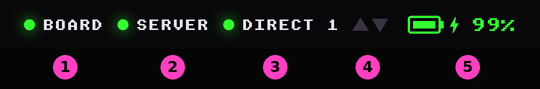
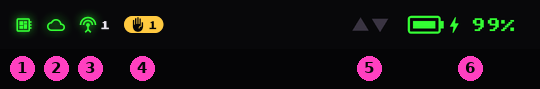
Docs: Permissions, the Control menu and chooser, and the new status strip
A page for Permissions (features, people, requests, declined, the
command log, what others see), Control's menu and chooser, the status
strip's icons and requests, the links sheet from the top, and the
card's Lets others control line; new and updated screenshots.

diff --git a/docs/app/permissions.md b/docs/app/permissions.md
@@ -1,0 +1,89 @@
+# Permissions
+
+Others in the hive can control parts of your unit: put words on its [Terminal](../features/terminal.md), or run your [Lovense](../features/lovense.md) toys.  **Permissions** is where you choose who can, see who's asking, and look back at every command that came.  The choices are kept on your unit, so they work whether or not your phone's with you.
+
+Open it from *Setup*, or from the [links sheet](connecting.md#the-links-sheet) that pulls down from the status strip.  When someone's asking, a yellow raised hand with a count shows on the [status strip](README.md#the-status-strip), on the links sheet and in Setup.
+
+Back to [the app](README.md).
+
+## Features
+
+<img src="../images/app/permissions_features.png" width="300" alt="The Features tab for the Terminal: Nobody, Allowed or Anyone, Ignore broadcasts and Ignore channel commands, and each person with a switch">
+
+Pick a feature at the top, *TERMINAL* or *LOVENSE*, to see one at a time.
+
+**Who can control it**:
+
+- **NOBODY**: everyone's commands are ignored.  Who you've allowed is kept for when you turn it back on.
+- **ALLOWED**, to start with: only the people switched on below.  Commands from anyone else aren't carried out, and come in as [requests](#requests).
+- **ANYONE**: everyone's commands are carried out.  The switches for each person make no difference while it's set.
+
+Two more switches ignore some commands whoever they're from, allowed or not:
+
+- **Ignore broadcasts**: commands sent to everyone who can hear the sender, from their *Broadcast*.  Those sent to the open direct channel count too, as anyone nearby can hear that.
+- **Ignore channel commands**: commands sent to a whole channel, server or direct, rather than just to you.
+
+With both on, only commands sent to you alone get through.
+
+**People** is everyone on your unit's list: anyone who's sent you a command, or been allowed something.  Switch someone on to let them control the feature.
+
+## People
+
+Everyone on your unit's list, with icons for what each is allowed.  Tap someone to choose everything they can control at once.  The remove button takes them off the list and allows them nothing: if they send you a command again, it comes in as a new request.
+
+People are known by their identity, not their name: their app signs each command with a key only it has.  So it's one entry whether they reach you over the server or direct, and nobody can pass as someone you've allowed by taking their name.  Someone using a name another person had first is marked ⚠.
+
+## Requests
+
+<img src="../images/app/permissions_requests.png" width="300" alt="A request from RCat-Linux2: wants to control the Terminal, what they last tried, and Decline or Accept">
+
+A request appears when someone who isn't allowed sends you a command for a feature set to *ALLOWED*.  Their command isn't carried out, and they aren't told either way: they just send, and it works once you've allowed them.  Several commands from one person make one request, with each feature they tried and their latest command.
+
+- **Accept** asks what to allow them.  The feature they asked for is already ticked; tick others to allow those too, or **Allow all**.  A feature you've set to *NOBODY* can be ticked: it takes effect when you turn it back on.
+- **Decline** leaves everything as it was, and moves them to [Declined](#declined).
+
+<img src="../images/app/permissions_accept.png" width="300" alt="Allow RCat-Linux2 to control: Terminal ticked, Lovense not, and Allow all or Allow">
+
+A request is only made while the app's linked to your unit.  One is taken back by itself if you allow them on the unit, or set the feature to *ANYONE*.
+
+When one comes in:
+
+- **Attention tone**: four short notes in your headphones, unlike the text tone or the ring.  In *Setup*, under *Headphones*, with a play button to hear it.  It's on to start with.
+- **Permission requests** notification: in *Setup*, under *Notifications*.  Tap it to open Permissions.  It's off to start with.
+
+Your unit plays no sound for requests.
+
+## Declined
+
+<img src="../images/app/permissions_declined.png" width="300" alt="Declined: RCat-Linux2, declined for the Terminal, with remove and Allow">
+
+Their commands for what you declined don't make new requests; the [log](#command-log) still notes them.
+
+- **×** takes them off this list, so their next command asks again.
+- **Allow** lets you allow them now, without waiting for a new request.
+
+## Command log
+
+<img src="../images/app/permissions_log.png" width="300" alt="The command log: each command with its time, who sent it and what, whether it was done, and how it came; requests declined and allowed">
+
+The log button at the top of Permissions lists every command that came to you, newest first, with the time:
+
+- **Who and what**: *RCat-Linux2 put "Report to the hive" on your display*, or *set your toys to vibrate at 4*.
+- **What came of it**: *Done* (green); *Not done: they asked for permission* or *their request is waiting* (yellow); or *Not done* and why (red): the feature's off, you ignore commands sent to everyone or to a channel, you declined them before, or you muted them.
+- **How it came**: *Cloud* (the server) or *Direct*, and whether it was sent *To you only*, *To the channel* or *To everyone*.
+
+Accepting, declining and allowing are noted too, in pink.  It keeps the last 500 entries; the button at its top clears it.  A command that came both ways is listed for each.
+
+## What others see
+
+Each unit tells the others what its wearer lets others control: over the server through its app, and over direct mode in the unit's own hello.  It says each feature that's *ALLOWED* or *ANYONE*, and leaves out those set to *NOBODY*, and *Lovense* while no toy is paired.  It says nothing about who in particular you've allowed.
+
+<img src="../images/app/person_capabilities.png" width="300" alt="What RCat-Linux lets others control: Terminal, only people they allow; Lovense, not available">
+
+On someone's card ([Voice](voice.md#whos-there)), *Lets others control* shows an icon for each.  Tap it for the whole list: *Anyone can control it*, *Only people they allow*, or *Not available*.  *Not known* means their app or unit is too old to say.  See [Control](control.md#sending) for how it's used.
+
+## On the unit and the remote
+
+The same settings are on the unit itself, on each feature's *Others* pages (the Lovense feature's *Hive Commands*, the Terminal's *Hive Messages*), and under *From others* in the [Remote](remote.md) tab.  They're one set of settings, kept on the unit: change them anywhere and the others follow.
+
+Older unit firmware can only allow someone a feature they've already sent a command for, and doesn't tell other units what it lets others control: [update it](firmware-updates.md).  Permissions greys out what it can't do yet, and says when your unit didn't take a change.

diff --git a/docs/app/text.md b/docs/app/text.md
@@ -30,7 +30,7 @@ Conversations are kept on the phone, the last 300 messages of each, so they're s
 
 ## Notifications
 
-A text that comes in while you're not looking at its conversation shows as a notification, with the conversation's latest texts and the sender's avatar.  Tap it to open the conversation.  Reading the conversation clears it.  Commands for your display or toys don't notify you: they're only noted in the conversation.
+A text that comes in while you're not looking at its conversation shows as a notification, with the conversation's latest texts and the sender's avatar.  Tap it to open the conversation.  Reading the conversation clears it.  Commands for your display or toys don't notify you: they're only noted in the conversation.  A [permission request](permissions.md#requests) can, with its own notification.
 
 In *Setup*, under *Notifications*:
 
@@ -65,7 +65,7 @@ For your own messages it shows how they went: other units don't say which copies
 
 ## Their display
 
-The **Terminal button** (`>_`) at the top of a conversation puts words on their unit's display, on its [Terminal](../features/terminal.md), in blocky green letters.  To a channel, it goes to everyone in it.
+**Terminal**, in the **Control button**'s menu (a remote) at the top of a conversation, puts words on their unit's display, on its [Terminal](../features/terminal.md), in blocky green letters.  To a channel, it goes to everyone in it.
 
 <img src="../images/app/text_terminal.png" width="300" alt="Their display: the words, the letter size, Add a line or Replace, Clear their display, and Switch to it">
 
@@ -78,37 +78,22 @@ It shows just as you type it, with no name added, and the same choices as typing
 
 It only shows if they [allow you](#who-can-put-words-on-your-display).  The display has plain capital letters, numbers and punctuation: anything else, like emoji, shows as `?`.
 
-No name is shown, but it isn't anonymous: their unit knows who sent it, as it has to in order to check they allow you, and shows the last sender on its *Hive Messages* page.  Their app notes it in your conversation too.
+No name is shown, but it isn't anonymous: their unit knows who sent it, as it has to in order to check they allow you, and shows the last sender on its *Hive Messages* page.  Their app notes it in your conversation, and in their [command log](permissions.md#command-log).
 
 ## Their toys
 
-The **Control button** at the top of a conversation opens [Control](control.md), for the toys of the person, or of everyone in the channel.
+**Lovense**, in the **Control button**'s menu at the top of a conversation, opens [Control](control.md), for the toys of the person, or of everyone in the channel.
 
 ## What a conversation shows
 
 Texts, yours on the right in pink and theirs on the left in green, with who sent each in a channel.
 
-Between them, in grey, are the commands for the display and the toys, sent each way: *You put "WE ARE THE HIVE" on their display*, or *RubberCat2 set your vibrate to 8*.  One your unit didn't do is in red, *not done*, so you can see who's trying.  It may not be allowed, or your unit may be set to ignore ones sent to everyone or to the whole channel.  Tap *change them* under it to go to those settings, in the [Remote](remote.md) tab.  Dragging a slider makes one line, not one for every step.
+Between them, in grey, are the commands for the display and the toys, sent each way: *You put "WE ARE THE HIVE" on their display*, or *RubberCat2 set your vibrate to 8*.  One your unit didn't do is in red, *not done*, so you can see who's trying.  It may not be allowed, or your unit may be set to ignore ones sent to everyone or to the whole channel.  Tap *change them* under it to go to [Permissions](permissions.md), whose [log](permissions.md#command-log) says why.  Dragging a slider makes one line, not one for every step.
 
 Someone you've muted (*Mute for me*, in their details) is muted here too: their texts and commands are ignored, and your unit doesn't do their commands, whoever they're for.
 
 ## Who can put words on your display
 
-You choose who can put words on your display, with **Off**, **Ask** or **Accept**, as for your [toys](control.md#who-can-control-your-toys).  It's on your unit, on the Terminal feature's second page, *Hive Messages*, and in the app's [Remote](remote.md) tab, under the Terminal tab's *From others*, with the list of who's sent you something:
+You choose who can put words on your display in [Permissions](permissions.md), as for your [toys](control.md#who-can-control-your-toys), with a list of its own.  It's **Allowed** to start with: the first time someone sends you words, nothing shows, and it comes in as a [request](permissions.md#requests) for you to accept or decline.
 
-- **Ask**, to start with: only people you've allowed.  The first time someone sends you words, they're added to your unit's list, **not allowed**, and nothing shows.  Tap them to allow them, and their words show from then on (tap again to stop; on the display, hold them to take them off the list).
-- **Accept**: anyone's words show, allowed or not.  New people are still added to the list, so you can see who's been sending, and allow them for when you go back to Ask.
-- **Off**: nobody's words show, and nobody's added.
-
-Two more choices, under it (on the unit, on the page after *Hive Messages*), ignore some commands whoever they're from, allowed or not:
-
-- **Ignore broadcasts**: those sent to everyone who can hear the sender, from their *Broadcast*.  Those sent to the channel over the open direct channel count too, as anyone nearby can hear that.
-- **Ignore channel-wide**: those sent to a whole channel, server or direct.
-
-So with both on, only commands sent to you alone get through.
-
-Someone's known by their identity, not their name: their app signs each command with a key only it has, and the list shows the first few characters of that key beside their name.  So it's one entry whether they reach you over the server or direct, and someone else can't pass as them by using their name.  Someone new who uses a name already on the list is marked ⚠: it's someone else.
-
-It's a separate list from the one for your toys, so someone can put words on your display without being allowed near your toys.  Texts don't need either: they only reach your app.
-
-Words for the display, and commands for the toys, need a Mumble server from version 1.4 on.  Texts work on any.
+Someone's known by their identity, not their name: their app signs each command with a key only it has.  So it's one entry whether they reach you over the server or direct, and someone else can't pass as them by using their name.  Someone new who uses a name already on the list is marked ⚠: it's someone else.

diff --git a/docs/app/control.md b/docs/app/control.md
@@ -1,6 +1,6 @@
 # Control
 
-Control runs other drones' [Lovense](../features/lovense.md) toys, through their units: over the server or over direct mode, wherever they are.  It only works on toys whose wearers have [allowed you](#who-can-control-your-toys).
+Control runs other drones' [Lovense](../features/lovense.md) toys, through their units: over the server or over direct mode, wherever they are.  It only works on toys whose wearers have allowed you (see [Permissions](permissions.md)); if they haven't, your first command asks them.
 
 <img src="../images/app/control.png" width="300" alt="Control for one drone: Levels, Patterns and React, a slider for each kind of motor, and STOP">
 
@@ -8,9 +8,19 @@ Back to [the app](README.md).  Running *your own* toys is on your unit's [Lovens
 
 ## Sending
 
-Open it with the **Control button** at the top of a [Text](text.md) conversation: it's for whoever that conversation is with, which it says at the top.  From a person's conversation it's their toys, sent both ways they can be reached (their unit does each once, by whichever way it allows); from a channel's, the toys of everyone in it; from *Broadcast*, everyone who can hear you.  The *Control* button on someone in the [Voice](voice.md#whos-there) list opens it for them too.
+The **Control button** (a remote) at the top of a [Text](text.md) conversation opens a menu of what you can control: **Terminal**, words on their [display](text.md#their-display), and **Lovense**, their toys.  It's for whoever that conversation is with, which it says at the top.  From a person's conversation it's their toys, sent both ways they can be reached (their unit does each once, by whichever way it allows); from a channel's, the toys of everyone in it; from *Broadcast*, everyone who can hear you.
 
-Then one of three sections:
+<img src="../images/app/control_menu.png" width="300" alt="The Control menu in a conversation: Terminal, and Lovense greyed out">
+
+For one person, what they don't let others control is greyed out: they've set it to *Nobody*, or for Lovense, have no toy paired.  Each unit says what it lets others control (see [What others see](permissions.md#what-others-see)); if theirs is too old to say, everything's there to try.  In a channel, everything is, as each person in it may allow different things.
+
+The **Control** button on someone's card, from the [Voice](voice.md#whos-there) list, opens the same choice as a screen: each feature, whether anyone can control it or only people they allow, and what's greyed out.
+
+<img src="../images/app/control_choose.png" width="300" alt="Control, to RCat-Linux: Terminal, only people they allow; Lovense greyed out, not available">
+
+Picking **Lovense** opens Control:
+
+It has three sections:
 
 - **LEVELS**: a slider for each kind of motor, from 0 to 20: *VIBRATE*, *ROTATE*, *PUMP* and *THRUST*.  Each toy runs the motors it has, and 20 is each motor's top.  The levels also set how high Patterns and React go.
 - **PATTERNS**: plays a pattern on their toys, if their unit has one by that name: the six built-in ones always do (*Wave*, *Pulse*, *Heartbeat*, *Climb*, *Surge*, *Wander*), and patterns from an SD card only if theirs has one with the same name.  The list is your unit's.  *SPEED* runs them from 25% to 300%.
@@ -22,18 +32,6 @@ What you set stays set on their toys until it's changed or stopped, even once yo
 
 ## Who can control your toys
 
-The same works the other way, and you choose whose commands your toys take, with **Off**, **Ask** or **Accept**.  It's on your unit, on the Lovense feature's *Hive Commands* page, and in the app's [Remote](remote.md) tab, under *Toys*, *From others*, with the list of who's sent you commands:
+The same works the other way: you choose whose commands your toys take, in [Permissions](permissions.md).  It's **Allowed** to start with, so someone new asks you first, and you accept or decline.  **STOP** on your own unit, or in your Remote tab, stops whatever anyone's set.
 
-- **Ask**, to start with: only people you've allowed.  The first time someone sends you a command, they're added to your unit's list, **not allowed**, and the command is ignored.  Allow them, and their commands work from then on.
-- **Accept**: anyone's commands work, allowed or not.  New people are still added to the list, so you can see who's been sending, and allow them for when you go back to Ask.
-- **Off**: everyone's commands are ignored, and nobody's added.
-- **STOP** on your own unit, or in your Remote tab, stops whatever anyone's set.
-
-Two more choices, under it (on the unit, on the page after *Hive Commands*), ignore some commands whoever they're from, allowed or not:
-
-- **Ignore broadcasts**: those sent to everyone who can hear the sender, from their *Broadcast*.  Those sent to the channel over the open direct channel count too, as anyone nearby can hear that.
-- **Ignore channel-wide**: those sent to a whole channel, server or direct.
-
-So with both on, only commands sent to you alone get through.  Someone you've [muted](text.md#what-a-conversation-shows) is ignored too.
-
-It's a separate list from the one for [your display](text.md#who-can-put-words-on-your-display), so someone can put words on your display without being allowed near your toys.  Texting you needs neither.  People are known by their identity, not their name, so nobody can pass as someone you've allowed: see [Commands from others](../features/lovense.md#commands-from-others) for the details.
+It's separate from who can [put words on your display](text.md#who-can-put-words-on-your-display), so someone can put words on your display without being allowed near your toys.  Texting you needs neither.  People are known by their identity, not their name, so nobody can pass as someone you've allowed: see [Commands from others](../features/lovense.md#commands-from-others) for the details.

diff --git a/docs/app/README.md b/docs/app/README.md
@@ -15,6 +15,7 @@ The DroneLab app is the phone's half of your unit.  It links your unit to the re
 - **[Voice](voice.md)**: talk to other drones and hear them, like a radio, over the internet through a shared server, or unit to unit with no signal at all.  Your voice goes out through your voice effect; theirs comes to your headphones, through the phone.  [Call](voice.md#calls) one drone to talk alone.
 - **[Text](text.md)**: text one drone, a channel, or everyone who can hear you, in a conversation for each, with photos over the server and emoji reactions; and from any of them, put words on their displays, if they've allowed you.
 - **[Control](control.md)**: run other drones' [Lovense](../features/lovense.md) toys, if they've allowed you, from a conversation.
+- **[Permissions](permissions.md)**: choose who can control your display and toys, accept or decline their requests, and see a log of every command that came.
 - **[Record](record.md)**: record your voice effect to the phone as WAV files, for videos, with a beep to line it up with the camera.
 - **[Remote](remote.md)**: everything on the unit's display, from the phone, so nobody has to reach the display in the mask.
 - **[Firmware updates](firmware-updates.md)**: the app carries the latest firmware for your unit and offers to put it on.
@@ -36,21 +37,22 @@ Four tabs along the bottom, and the status strip along the top of every one:
 | **Record** | Recording your voice, and your recordings. |
 | **Remote** | The unit's own controls, as on its display. |
 
-**Setup**, behind the gear on the Voice tab, has what's set once: [connecting](connecting.md) the unit and the server, your avatar, how you [talk](voice.md#setup-talking), the [unit's sounds](voice.md#setup-unit-sounds), the headphones' ring and text tones, [notifications](text.md#notifications), and the [unit's firmware](firmware-updates.md).  Its (i), top right, opens **About**: the app's and phone's versions, and the unit's connection, signal, firmware, MAC addresses, enclosure, uptime and battery.  The (i) buttons throughout the app explain each setting.  Tapping the version on *About* ten times shows [developer options](developer-options.md) in Setup, for testing range and relays alone.
+**Setup**, behind the gear on the Voice tab, has what's set once: [connecting](connecting.md) the unit and the server, your avatar, how you [talk](voice.md#setup-talking), the [unit's sounds](voice.md#setup-unit-sounds), [permissions](permissions.md), the headphones' ring, text and attention tones, [notifications](text.md#notifications), and the [unit's firmware](firmware-updates.md).  Its (i), top right, opens **About**: the app's and phone's versions, and the unit's connection, signal, firmware, MAC addresses, enclosure, uptime and battery.  The (i) buttons throughout the app explain each setting.  Tapping the version on *About* ten times shows [developer options](developer-options.md) in Setup, for testing range and relays alone.
 
 ### The status strip
 
-<img src="../images/app/status_strip.png" width="540" alt="The status strip, numbered: 1 board, 2 server, 3 direct, 4 arrows, 5 battery">
+<img src="../images/app/status_strip.png" width="540" alt="The status strip, numbered: 1 unit, 2 server, 3 direct, 4 requests, 5 arrows, 6 battery">
 
 | | Shows | |
 |---|---|---|
-| 1 | **BOARD** | Green while the app's connected to your unit over Bluetooth. |
-| 2 | **SERVER** | Green while it's connected to the hive's server, for the [cloud link](voice.md#two-links-server-and-direct). |
-| 3 | **DIRECT** | Green while [direct mode](voice.md#two-links-server-and-direct) is on, with how many units it hears nearby. |
-| 4 | **Arrows** | Up, pink: your voice is going out.  Down, green: you're hearing someone.  Down, grey: someone's talking on another direct channel nearby, which you can't hear. |
-| 5 | **Battery** | Your unit's charge, with a bolt while it charges.  It turns red at 15%. |
+| 1 | **Unit** (a circuit board) | Green while the app's connected to your unit over Bluetooth. |
+| 2 | **Server** (a cloud) | Green while it's connected to the hive's server, for the [cloud link](voice.md#two-links-server-and-direct). |
+| 3 | **Direct** (an antenna) | Green while [direct mode](voice.md#two-links-server-and-direct) is on, with how many units it hears nearby. |
+| 4 | **Requests** (a raised hand) | Yellow, with how many, while someone's [asking to control](permissions.md#requests) something of yours.  Gone when there are none. |
+| 5 | **Arrows** | Up, pink: your voice is going out.  Down, green: you're hearing someone.  Down, grey: someone's talking on another direct channel nearby, which you can't hear. |
+| 6 | **Battery** | Your unit's charge, with a bolt while it charges.  It turns red at 15%. |
 
-A grey dot is a link that's off, or not connected.  Tap the strip to open the [links sheet](connecting.md#the-links-sheet), which connects or disconnects each one.
+A grey icon is a link that's off, or not connected.  Tap the strip to pull down the [links sheet](connecting.md#the-links-sheet), which connects or disconnects each one, and opens Permissions.
 
 ### Other signs
 
@@ -67,6 +69,6 @@ A grey dot is a link that's off, or not connected.  Tap the strip to open the [l
 
 - [Installing the App](installing.md), and what to do if the phone won't let you.
 - [Connecting](connecting.md): pairing, the server, your avatar.
-- [Voice](voice.md), [Text](text.md), [Control](control.md), [Record](record.md), [Remote](remote.md).
+- [Voice](voice.md), [Text](text.md), [Control](control.md), [Permissions](permissions.md), [Record](record.md), [Remote](remote.md).
 - [Updating the unit's firmware](firmware-updates.md).
 - [HiveMind (Comms)](../features/comms.md): the unit's side of HiveMind, setting up a server, and how it works underneath.

diff --git a/docs/features/lovense.md b/docs/features/lovense.md
@@ -26,7 +26,7 @@ Its pages, left to right:
 
 Others in your hive can send commands to your devices, from *Control* in the DroneLab app (see [Control](../app/control.md)): stop, set each kind of motor (all your vibrators, say) to a level, play a pattern, change the patterns' speed, or start a reaction (*React to*), to your own voice or movement, as your board senses them.  They come over the Mumble server, through your phone, or board to board over [direct mode](comms.md#direct-mode).  Your board does them as if you'd used its own controls, and they stay set until they're changed: **STOP**, on the Control page, stops them as it stops everything else, and a STOP sent by someone else stops reactions too.
 
-Whose commands are done is up to you, with **Off**, **Ask** or **Accept** on the *Hive Commands* page, or under *From others* in the remote's *Toys* tab (in the app's *Remote* tab too):
+Whose commands are done is up to you, with **Off**, **Ask** or **Accept** on the *Hive Commands* page, or under *From others* in the remote's *Toys* tab.  The app's [Permissions](../app/permissions.md) has the same settings, as *Nobody*, *Allowed* and *Anyone*, with requests to accept or decline and a log of every command:
 
 - **Ask**, to start with: only those you've allowed are obeyed.  The first time someone sends you a command, they're added to the *Permissions* list, not allowed, and you tick them there.
 - **Accept**: everyone's commands are done, allowed or not.  Anyone new is still added to the list, so you can see who's been sending, and tick them for when you go back to Ask.
@@ -35,6 +35,8 @@ Whose commands are done is up to you, with **Off**, **Ask** or **Accept** on the
 The *Ignore* page, after it (and the same switches under *From others* in the remote), ignores some commands whoever they're from: **Broadcasts**, sent to everyone who can hear the sender (with those to the channel on the open direct channel, which anyone nearby can hear), and those **To a whole channel**.  With both on, only commands sent to you alone get through.  And anyone you've muted in the app is ignored, whatever's set here.
 
 Someone's known by their identity, not their name: their DroneLab app makes a key pair the first time it runs and signs every command with it, and your board checks the signature (or your app does, for those that come over the server).  The list shows the first characters of their key beside their name, and it's the same person whether they're heard in cloud or direct mode.  Someone new using a name already on the list is marked ⚠: it's someone else with that name.  A command can't be recorded and played back later either, as each is numbered and an old one's dropped.
+
+Your board also tells the others what you let them control: the Lovense feature while it's on *Ask* or *Accept* and a toy is paired, and the [Terminal](terminal.md#messages-from-others) while it isn't *Off*.  It's said in its hello over direct mode, and by your app over the server, for their apps to grey out what you don't allow (see [What others see](../app/permissions.md#what-others-see)).  It doesn't say who you've allowed.
 
 A pattern plays if your board has one by the same name: the six built-in ones always do, and patterns on the SD card only if yours has one with that name too.  A level of 20 is each motor's top, so the air pump's 3.
 

diff --git a/docs/app/remote.md b/docs/app/remote.md
@@ -20,9 +20,9 @@ Once the unit's screwed into the mask, its display faces outward, where you can'
 The page is the unit's own, so it always matches the unit's firmware.  It has five tabs:
 
 - **Screen**: what's on the display now, with arrows to step through every page, the visualizer styles, and every feature's pages to jump straight to one.
-- **Toys**: your own [Lovense](../features/lovense.md) toys: a slider for each motor, the patterns, the reactions, the devices, and a big **STOP**.  *From others* is the list of who can [control your toys](control.md#who-can-control-your-toys).
+- **Toys**: your own [Lovense](../features/lovense.md) toys: a slider for each motor, the patterns, the reactions, the devices, and a big **STOP**.  *From others* is the list of who can [control your toys](control.md#who-can-control-your-toys), also in [Permissions](permissions.md).
 - **Sound**: the voice effect and its volume, the voice ring, and the sound player.  A low-profile unit has no speaker, so its voice effect isn't here: pick it as *HiveMind voice* in Setup, or on the unit.
-- **Terminal**: type a message onto your own display.  *From others* is who can [put words on it](text.md#who-can-put-words-on-your-display), *Off*, *Ask* or *Accept*, and the list of who's tried.
+- **Terminal**: type a message onto your own display.  *From others* is who can [put words on it](text.md#who-can-put-words-on-your-display), *Off*, *Ask* or *Accept*, and the list of who's tried, also in [Permissions](permissions.md).
 - **Setup**: the display's settings: brightness, rotation, what it shows at startup, and the battery.
 
 Each tab is described in full in [WiFi Hotspot Remote](../features/phone-remote.md), which is the same page.  The display and the phone control the same things, so each shows what the other does.

diff --git a/docs/features/terminal.md b/docs/features/terminal.md
@@ -26,6 +26,6 @@ You choose who can, on the Terminal's second page, *Hive Messages*, with **Off**
 
 The page after it, *Ignore*, ignores some whoever they're from: **Broadcasts**, sent to everyone who can hear the sender (with those to the channel on the open direct channel, which anyone nearby can hear), and those **To a whole channel**.  Anyone you've muted in the app is ignored too.
 
-The same choice and list are under *From others* in the remote's Terminal tab.  It works as the [Lovense feature's](lovense.md#commands-from-others) list does, but is a list of its own, so someone can be allowed to put words on your display without being allowed near your toys.  Texts from others in the app need neither: they go to your app, not the display.
+The same choice and list are under *From others* in the remote's Terminal tab, and in the app's [Permissions](../app/permissions.md), with requests to accept or decline and a log of every command.  It works as the [Lovense feature's](lovense.md#commands-from-others) list does, but is a list of its own, so someone can be allowed to put words on your display without being allowed near your toys.  Texts from others in the app need neither: they go to your app, not the display.
 
 The Terminal's font is LVGL's 8x8 unscii font with each pixel drawn as a square block.  `tools/gen_terminal_font.py` makes `core/ui/terminal_font.c` from it.

diff --git a/docs/app/voice.md b/docs/app/voice.md
@@ -47,9 +47,9 @@ Under each name it says how they're linked, or what they're doing:
 
 The **speaker button** on each row mutes that person, for you alone: the app doesn't play them, and your unit doesn't show them talking.  Their texts are ignored too, and your unit doesn't do their commands.  The app remembers by name, so they stay muted next time.
 
-Tap someone's picture for more: how they're linked, their signal and when they were last heard, their unit's firmware and app versions (over direct mode), muting, and shortcuts to open your [conversation](text.md) with them or [control](control.md) their toys.
+Tap someone's picture for more: how they're linked, their signal and when they were last heard, their unit's firmware and app versions (over direct mode), what they **let others control** (an icon for each: tap it for the [whole list](permissions.md#what-others-see)), muting, and shortcuts to open your [conversation](text.md) with them or [control](control.md#sending) something of theirs.
 
-<img src="../images/app/person.png" width="300" alt="Someone tapped: their link, signal, when last heard, firmware and app, Mute for me, and Message and Control">
+<img src="../images/app/person.png" width="300" alt="Someone tapped: their link, signal, when last heard, firmware and app, what they let others control, Mute for me, and Message and Control">
 
 ## Talking
 

diff --git a/docs/app/connecting.md b/docs/app/connecting.md
@@ -47,9 +47,9 @@ Your picture, shown to the hive on their app and their display while you talk.  
 
 ## The links sheet
 
-Tap the [status strip](README.md#the-status-strip) at the top of any tab to see each link and connect or disconnect it: the unit (*Find* or *Disconnect*), the server (*Connect* or *Disconnect*), and *Direct* on or off.  The arrows' meanings are there too.
+Tap the [status strip](README.md#the-status-strip) at the top of any tab, and the links sheet pulls down from the top, under the DroneLab logo: each link to connect or disconnect, the unit (*Find* or *Disconnect*), the server (*Connect* or *Disconnect*), and *Direct* on or off.  Under them, **Permissions** opens [Permissions](permissions.md), with a yellow raised hand while requests are waiting, and the arrows' meanings are at the bottom.  Tap outside it, or swipe it up, to close it.
 
-<img src="../images/app/links.png" width="300" alt="The links sheet: the unit connected, the server connected, Direct on with one unit nearby, and what the traffic arrows mean">
+<img src="../images/app/links.png" width="300" alt="The links sheet under the DroneLab logo: the unit connected, the server connected, Direct on with one unit nearby, Permissions with a request waiting, and what the traffic arrows mean">
 
 ## Staying connected
 

diff --git a/docs/README.md b/docs/README.md
@@ -17,7 +17,8 @@ New here?  Start with the [project page](../README.md).
   - [Connecting](app/connecting.md): pairing the unit, joining the server, your avatar.
   - [HiveMind](app/voice.md): talking to other drones, over the server and direct, and hearing them.
   - [Text](app/text.md): texts with one drone, a channel or all of the hive, words on their displays, and who can put words on yours.
-  - [Control](app/control.md): others' Lovense toys, and who can control yours.
+  - [Control](app/control.md): others' displays and Lovense toys.
+  - [Permissions](app/permissions.md): who can control yours, requests, and the command log.
   - [Record](app/record.md): your voice effect to WAV files, for videos.
   - [Remote](app/remote.md): the unit's controls on the phone, and the WiFi hotspot for iPhones.
   - [Updating the unit's firmware](app/firmware-updates.md): from the app, or over USB.
